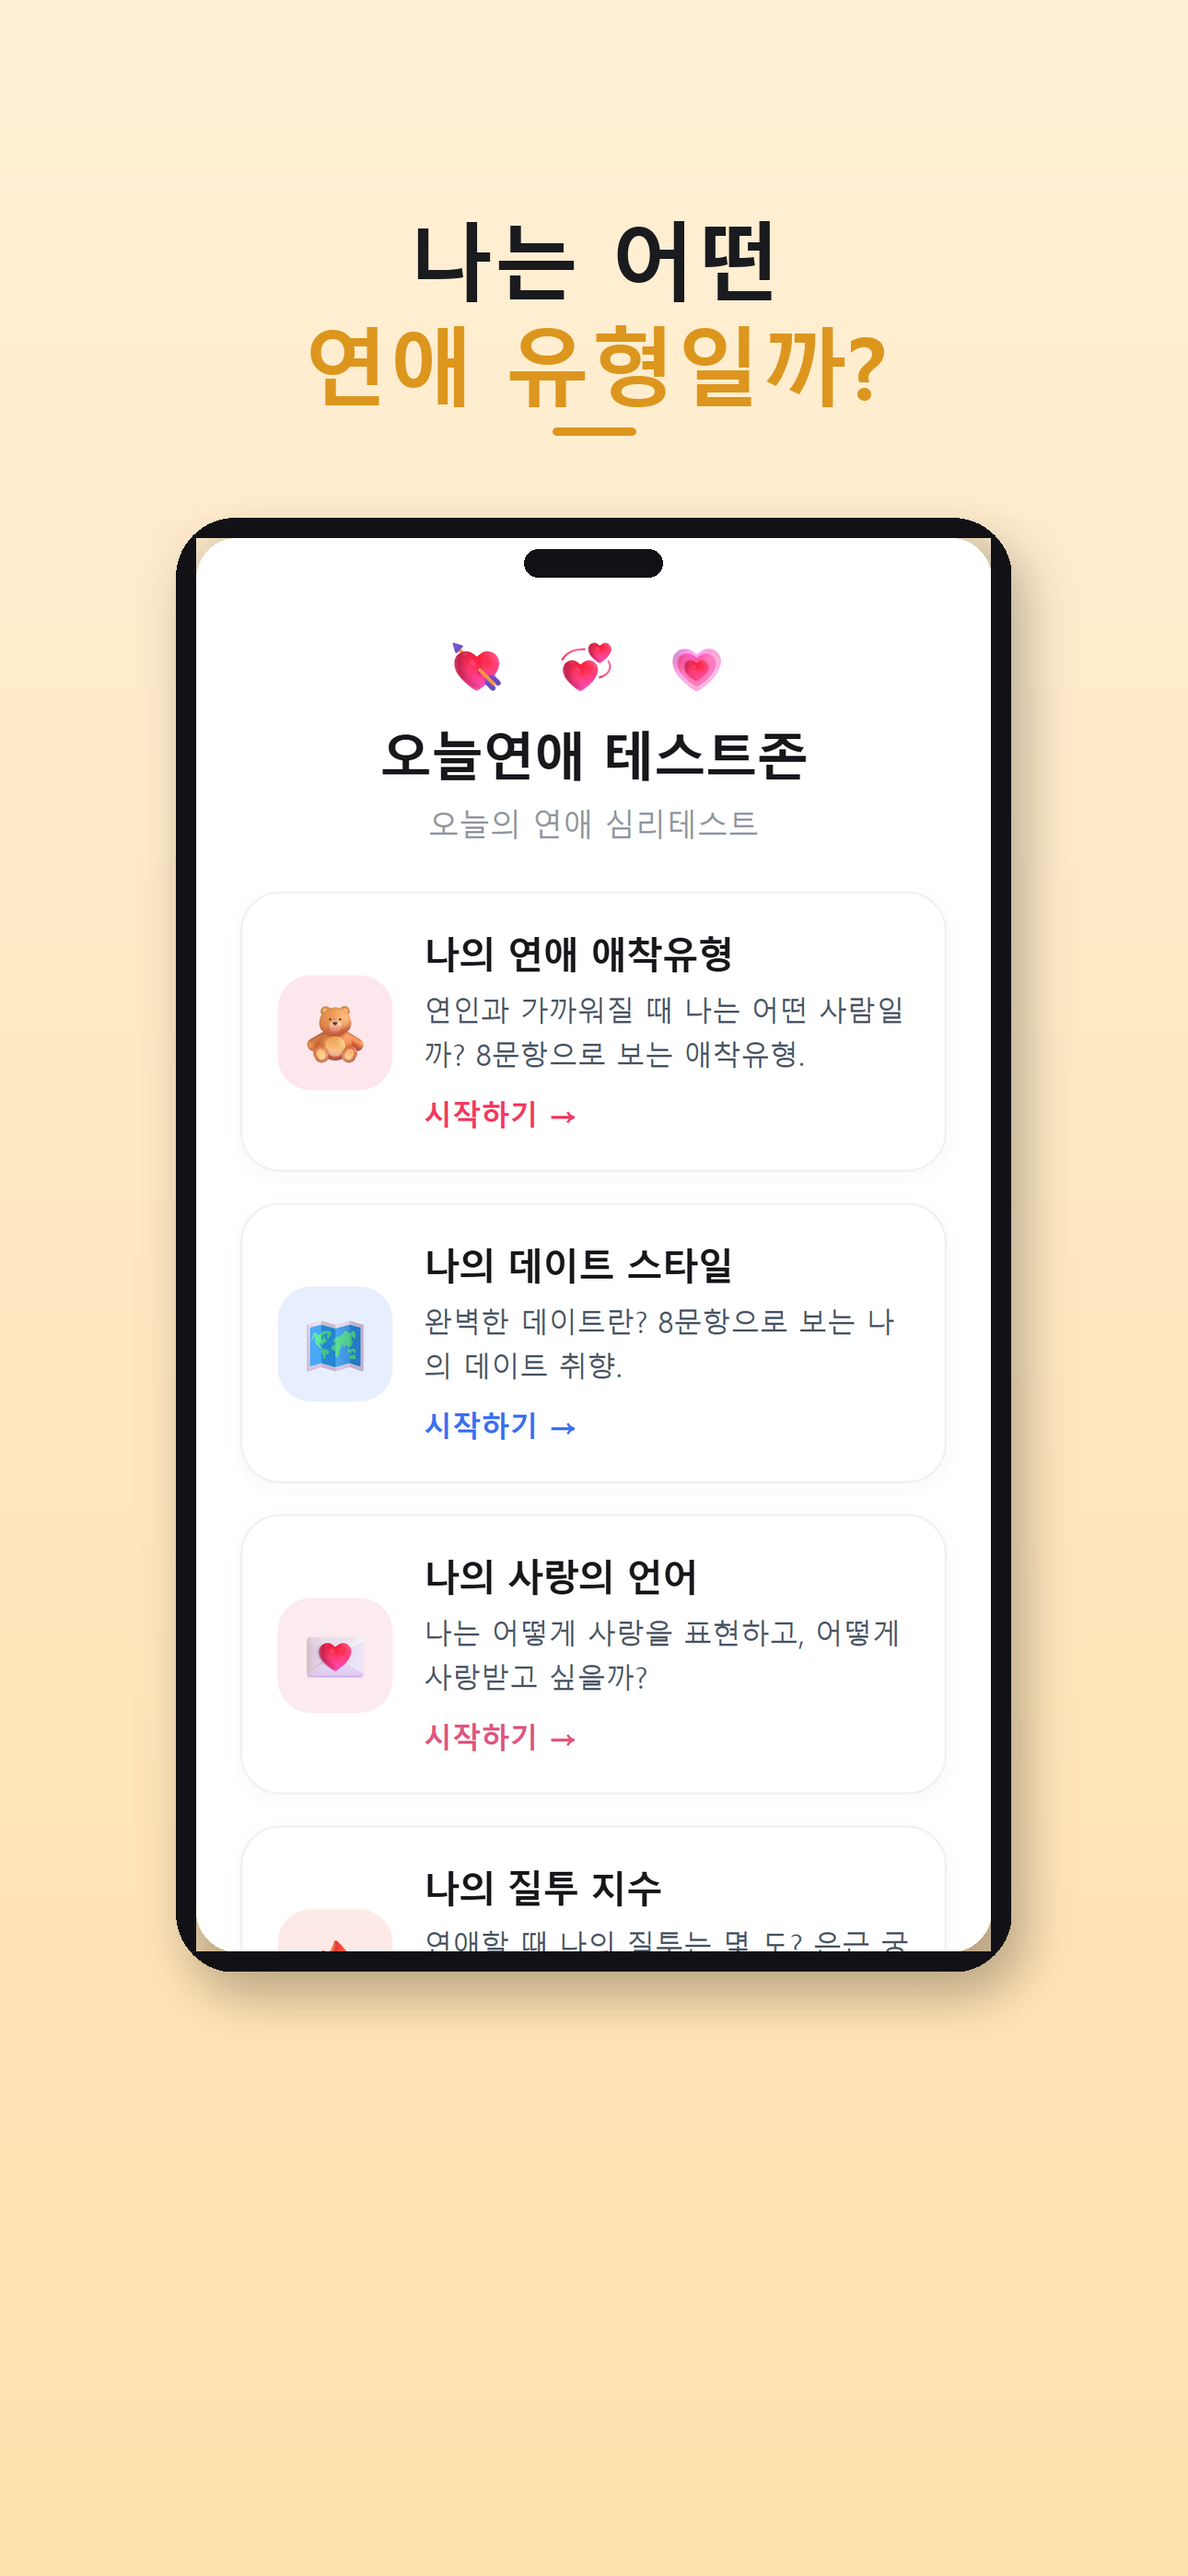
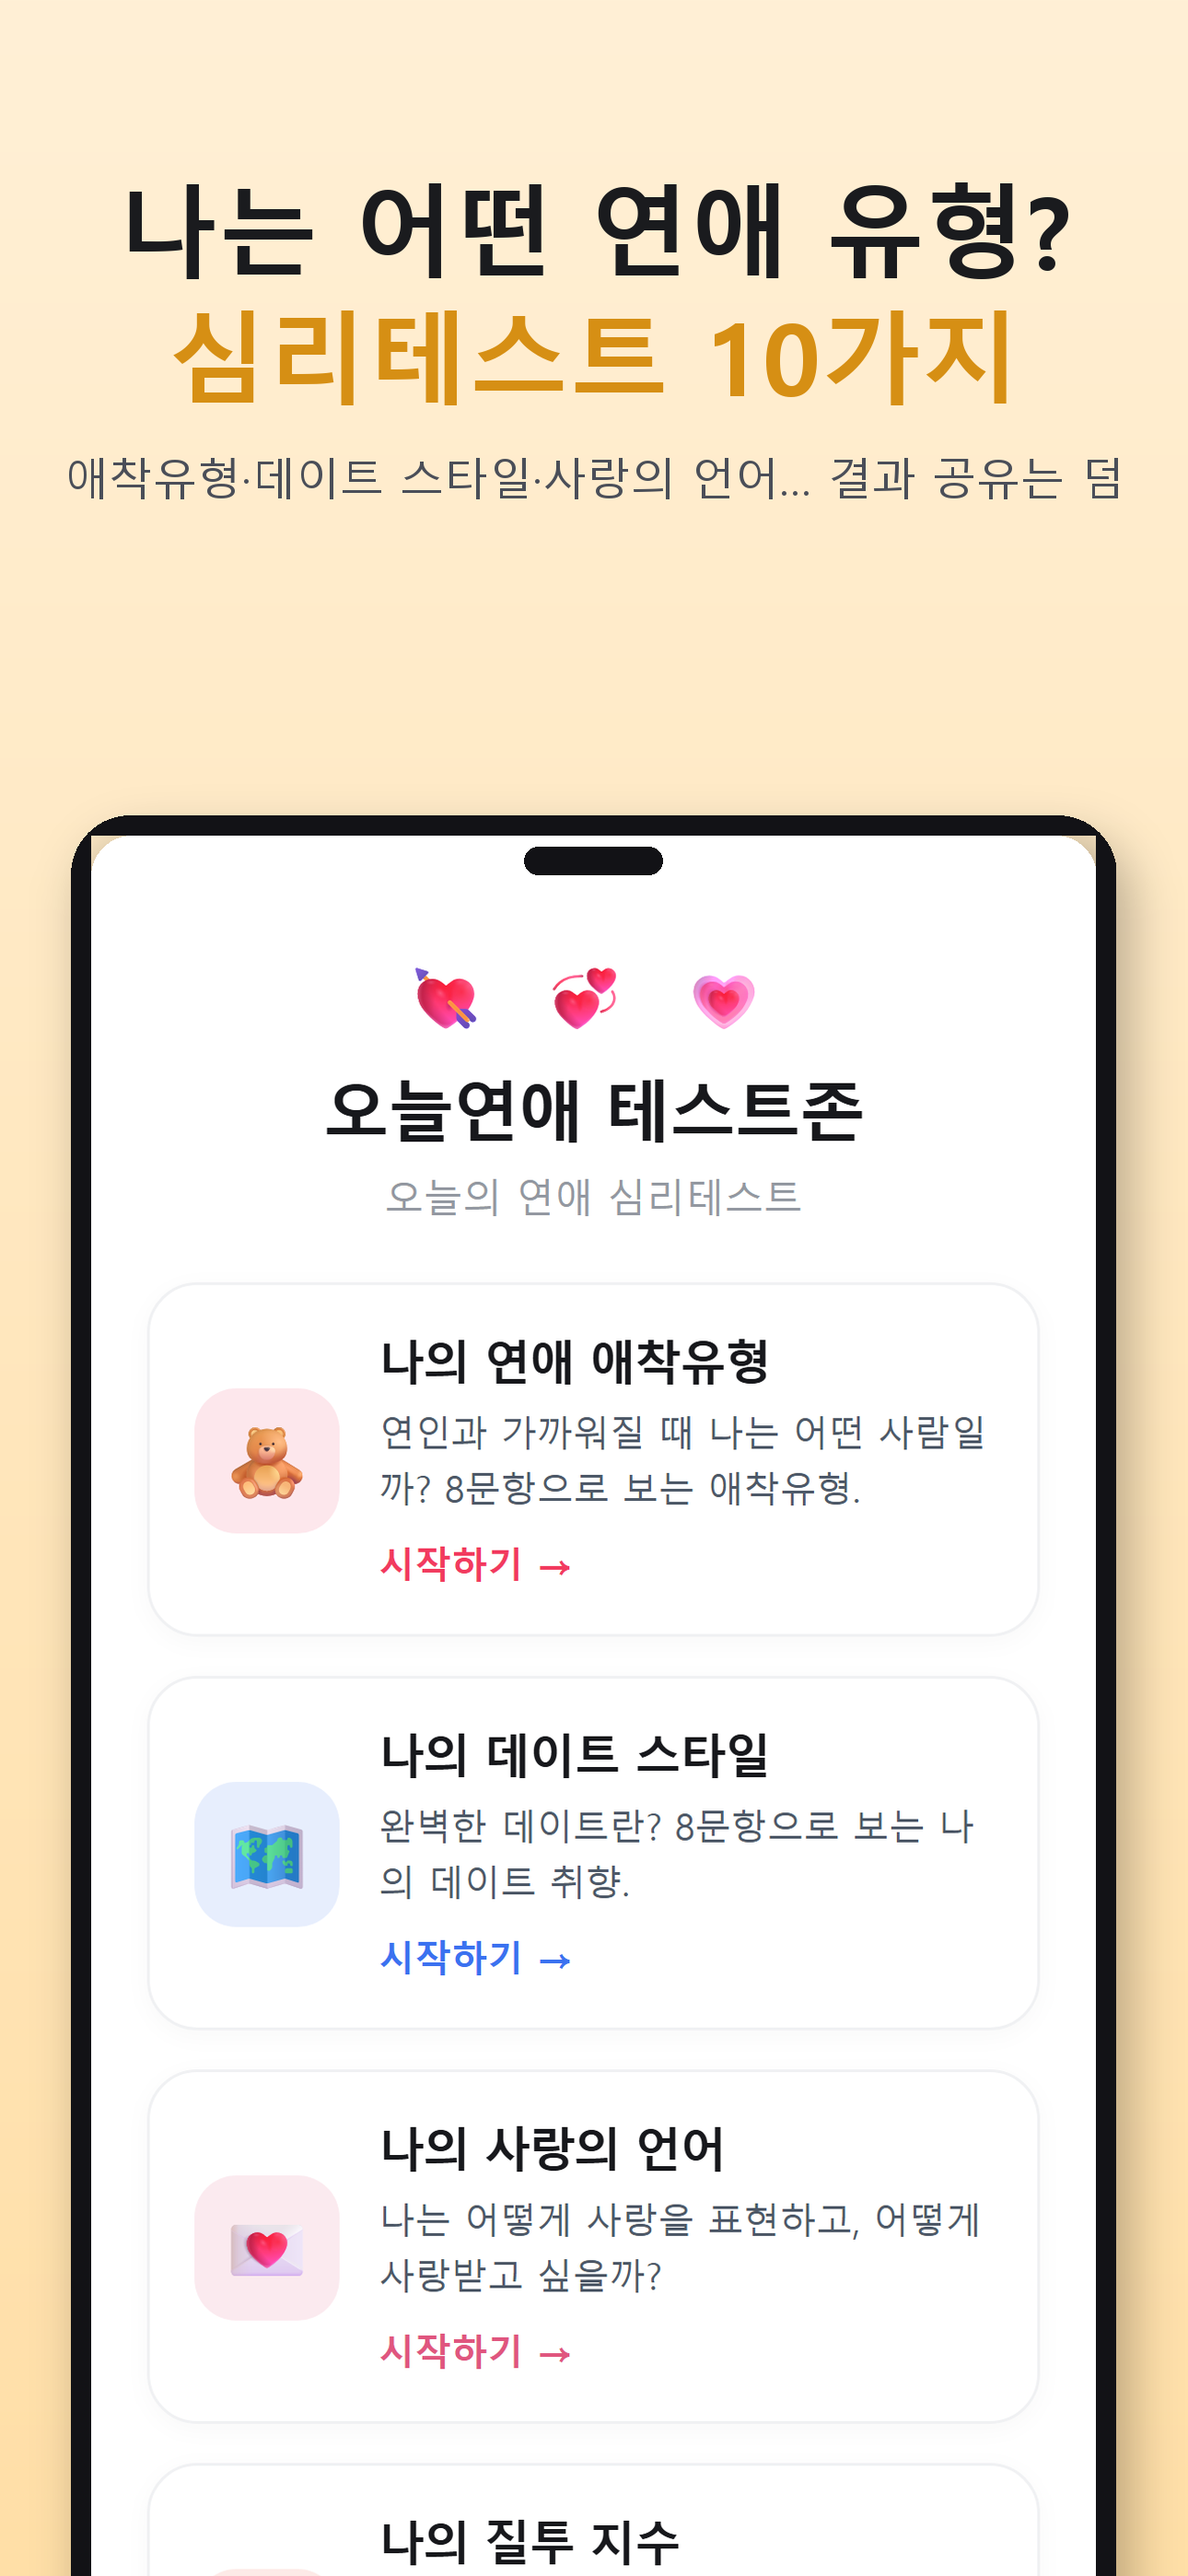
style(store): 마케팅 합성 v2 — 서브카피 추가, 폰 목업 하단 앵커(iOS 여백 제거), 폭 자동 맞춤

diff --git a/app/store/make_marketing.py b/app/store/make_marketing.py
@@ -1,16 +1,13 @@
-"""플레이/앱스토어 마케팅 스크린샷 생성 — 실제 앱 화면을 폰 프레임에 넣고 헤드라인 얹기.
-입력: screenshots/*.png (1080폭 세로 캡처). 출력: marketing/*.png (1080x1920).
-"""
+"""플레이/앱스토어 마케팅 스크린샷 생성 — 실기기 캡처를 폰 목업에 넣고 헤드라인+서브카피.
+입력: screenshots_v11/*.png (1080x1920, 실기기 배율). 출력: marketing/(1080x1920) · ios 인자 시 marketing_ios/(1290x2796).
+레이아웃: 타이포는 세로(H) 비례, 폰 목업은 하단 앵커(캔버스 아래로 살짝 블리드) → 하단 여백 없음."""
 import os
+import sys
 
 from PIL import Image, ImageDraw, ImageFont, ImageFilter
 
-import sys
-
 HERE = os.path.dirname(__file__)
 SHOTS = os.path.join(HERE, "screenshots_v11")
-
-# 인자로 ios 주면 아이폰 6.7형(1290x2796), 기본은 플레이(1080x1920)
 IOS = len(sys.argv) > 1 and sys.argv[1] == "ios"
 OUT = os.path.join(HERE, "marketing_ios" if IOS else "marketing")
 os.makedirs(OUT, exist_ok=True)
@@ -18,18 +15,27 @@ os.makedirs(OUT, exist_ok=True)
 W, H = (1290, 2796) if IOS else (1080, 1920)
 BOLD = "C:/Windows/Fonts/malgunbd.ttf"
 REG = "C:/Windows/Fonts/malgun.ttf"
-
 ROSE = (242, 59, 95)
 INK = (26, 27, 30)
-WHITE = (255, 255, 255)
+SUB = (74, 78, 88)
 
-# 슬라이드: (스크린샷 파일, 헤드라인 2줄, 배경 그라데 색상 2개, 강조 텍스트색)
+# (스크린샷, 헤드라인 2줄, 서브카피, 배경 그라데, 강조색)
 SLIDES = [
-    ("01_fortune.png", ["매일 자정,", "나만의 연애운세"], ((236, 228, 255), (214, 198, 250)), (110, 84, 220)),
-    ("02_tarot.png", ["타로 한 장,", "오늘의 궁합까지"], ((255, 228, 235), (255, 206, 221)), ROSE),
-    ("03_community.png", ["연애 고민,", "혼자 끙끙대지 마세요"], ((255, 234, 224), (255, 213, 195)), (240, 120, 60)),
-    ("04_home.png", ["애매한 상황,", "투표로 물어봐"], ((224, 245, 236), (197, 235, 217)), (40, 165, 120)),
-    ("06_tests.png", ["나는 어떤", "연애 유형일까?"], ((255, 240, 214), (255, 225, 173)), (220, 150, 30)),
+    ("01_fortune.png", ["매일 자정,", "나만의 연애운세 도착"],
+     "생년월일·연애 상태 맞춤 운세 — 점수·항목별 조언까지 전부 무료",
+     ((236, 228, 255), (211, 195, 250)), (110, 84, 220)),
+    ("02_tarot.png", ["타로 한 장,", "그 사람과 오늘의 궁합"],
+     "마음속 질문 하나면 타로가, 생년월일 입력이면 궁합이 나와요",
+     ((255, 228, 235), (255, 203, 219)), ROSE),
+    ("03_community.png", ["연애 고민,", "익명으로 털어놓으세요"],
+     "실명 걱정 없이 — 같은 고민을 겪어본 사람들의 진짜 조언",
+     ((255, 234, 224), (255, 211, 191)), (240, 120, 60)),
+    ("04_home.png", ["이거 내가 예민한 걸까?", "투표로 물어보세요"],
+     "애매한 연애 상황, A/B 밸런스 투표로 바로 여론 확인",
+     ((224, 245, 236), (193, 234, 214)), (32, 158, 112)),
+    ("06_tests.png", ["나는 어떤 연애 유형?", "심리테스트 10가지"],
+     "애착유형·데이트 스타일·사랑의 언어… 결과 공유는 덤",
+     ((255, 240, 214), (255, 223, 167)), (214, 143, 20)),
 ]
 
 
@@ -51,52 +57,61 @@ def rounded(img, rad):
 
 
 def phone_frame(shot_path, target_w):
-    """스크린샷을 폰 목업(둥근 베젤+노치)에 넣어 RGBA 반환."""
     shot = Image.open(shot_path).convert("RGB")
-    # 폰 화면 비율 9:19.5 로 상단 크롭
     sw = shot.width
     sh = int(sw * 19.5 / 9)
     shot = shot.crop((0, 0, sw, min(sh, shot.height)))
-    scr_w = target_w - 44  # 베젤 두께
+    scr_w = target_w - 44
     scr = shot.resize((scr_w, int(scr_w * shot.height / shot.width)), Image.LANCZOS)
-    scr_h = scr.height
-
     bez = 22
-    fw, fh = scr_w + bez * 2, scr_h + bez * 2
+    fw, fh = scr_w + bez * 2, scr.height + bez * 2
     frame = Image.new("RGBA", (fw, fh), (0, 0, 0, 0))
     d = ImageDraw.Draw(frame)
-    # 검정 베젤(라운드)
     d.rounded_rectangle([0, 0, fw, fh], radius=64, fill=(18, 18, 22, 255))
-    # 화면
     frame.paste(rounded(scr, 44), (bez, bez))
-    # 노치(상단 pill)
     nw, nh = 150, 30
     d.rounded_rectangle([(fw - nw) // 2, bez + 12, (fw + nw) // 2, bez + 12 + nh], radius=15, fill=(18, 18, 22, 255))
     return frame
 
 
 def make(slide, idx):
-    shot, lines, (top, bot), accent = slide
+    shot, lines, sub, (top, bot), accent = slide
+    VS = H / 1920  # 세로 여백 스케일
     canvas = vgrad(W, H, top, bot).convert("RGBA")
     d = ImageDraw.Draw(canvas)
 
-    # 헤드라인 (캔버스 크기에 비례)
-    fs = int(78 * W / 1080)
-    f = ImageFont.truetype(BOLD, fs)
-    line_h = int(96 * W / 1080)
-    y = int(150 * H / 1920)
+    def fit_font(path, size, texts, max_w):
+        while size > 20:
+            ft = ImageFont.truetype(path, size)
+            if all(d.textlength(t, font=ft) <= max_w for t in texts):
+                return ft, size
+            size -= 2
+        return ImageFont.truetype(path, size), size
+
+    # 헤드라인 — 가로 기준 크기 + 폭 자동 맞춤
+    f, fs = fit_font(BOLD, int(92 * W / 1080), lines, W - int(90 * W / 1080))
+    line_h = int(fs * 1.26)
+    y = int(120 * VS)
     for i, line in enumerate(lines):
         w = d.textlength(line, font=f)
         color = accent if i == len(lines) - 1 else INK
         d.text(((W - w) / 2, y), line, font=f, fill=color)
         y += line_h
-    d.rounded_rectangle([(W - 90) // 2, y + 18, (W + 90) // 2, y + 26], radius=4, fill=accent)
+    # 서브카피 (설명 한 줄) — 폭 자동 맞춤
+    y += int(26 * VS)
+    sf, sfs = fit_font(REG, int(42 * W / 1080), [sub], W - int(80 * W / 1080))
+    sw_ = d.textlength(sub, font=sf)
+    d.text(((W - sw_) / 2, y), sub, font=sf, fill=SUB)
+    y += int(sfs * 1.3) + int(40 * VS)
 
-    # 폰 목업 — 하단 중앙, 헤드라인 아래
-    frame = phone_frame(os.path.join(SHOTS, shot), target_w=int(760 * W / 1080))
+    # 폰 목업 — 하단 앵커(아래로 50px 블리드), 폭은 상한 내에서 높이를 채우도록
+    bleed = int(50 * VS)
+    avail_h = H + bleed - (y + int(30 * VS))
+    scr_w_by_h = int((avail_h - 44) * 1080 / 1920)  # shot 1080x1920
+    target_w = min(int(0.88 * W), scr_w_by_h + 44)
+    frame = phone_frame(os.path.join(SHOTS, shot), target_w=target_w)
     fx = (W - frame.width) // 2
-    fy = y + int(80 * H / 1920)
-    # 그림자
+    fy = H + bleed - frame.height  # 하단 붙임 → 남는 공간은 위(서브카피와의 사이)로
     shadow = Image.new("RGBA", canvas.size, (0, 0, 0, 0))
     sd = ImageDraw.Draw(shadow)
     sd.rounded_rectangle([fx + 14, fy + 26, fx + frame.width + 14, fy + frame.height + 26], radius=64, fill=(0, 0, 0, 70))
